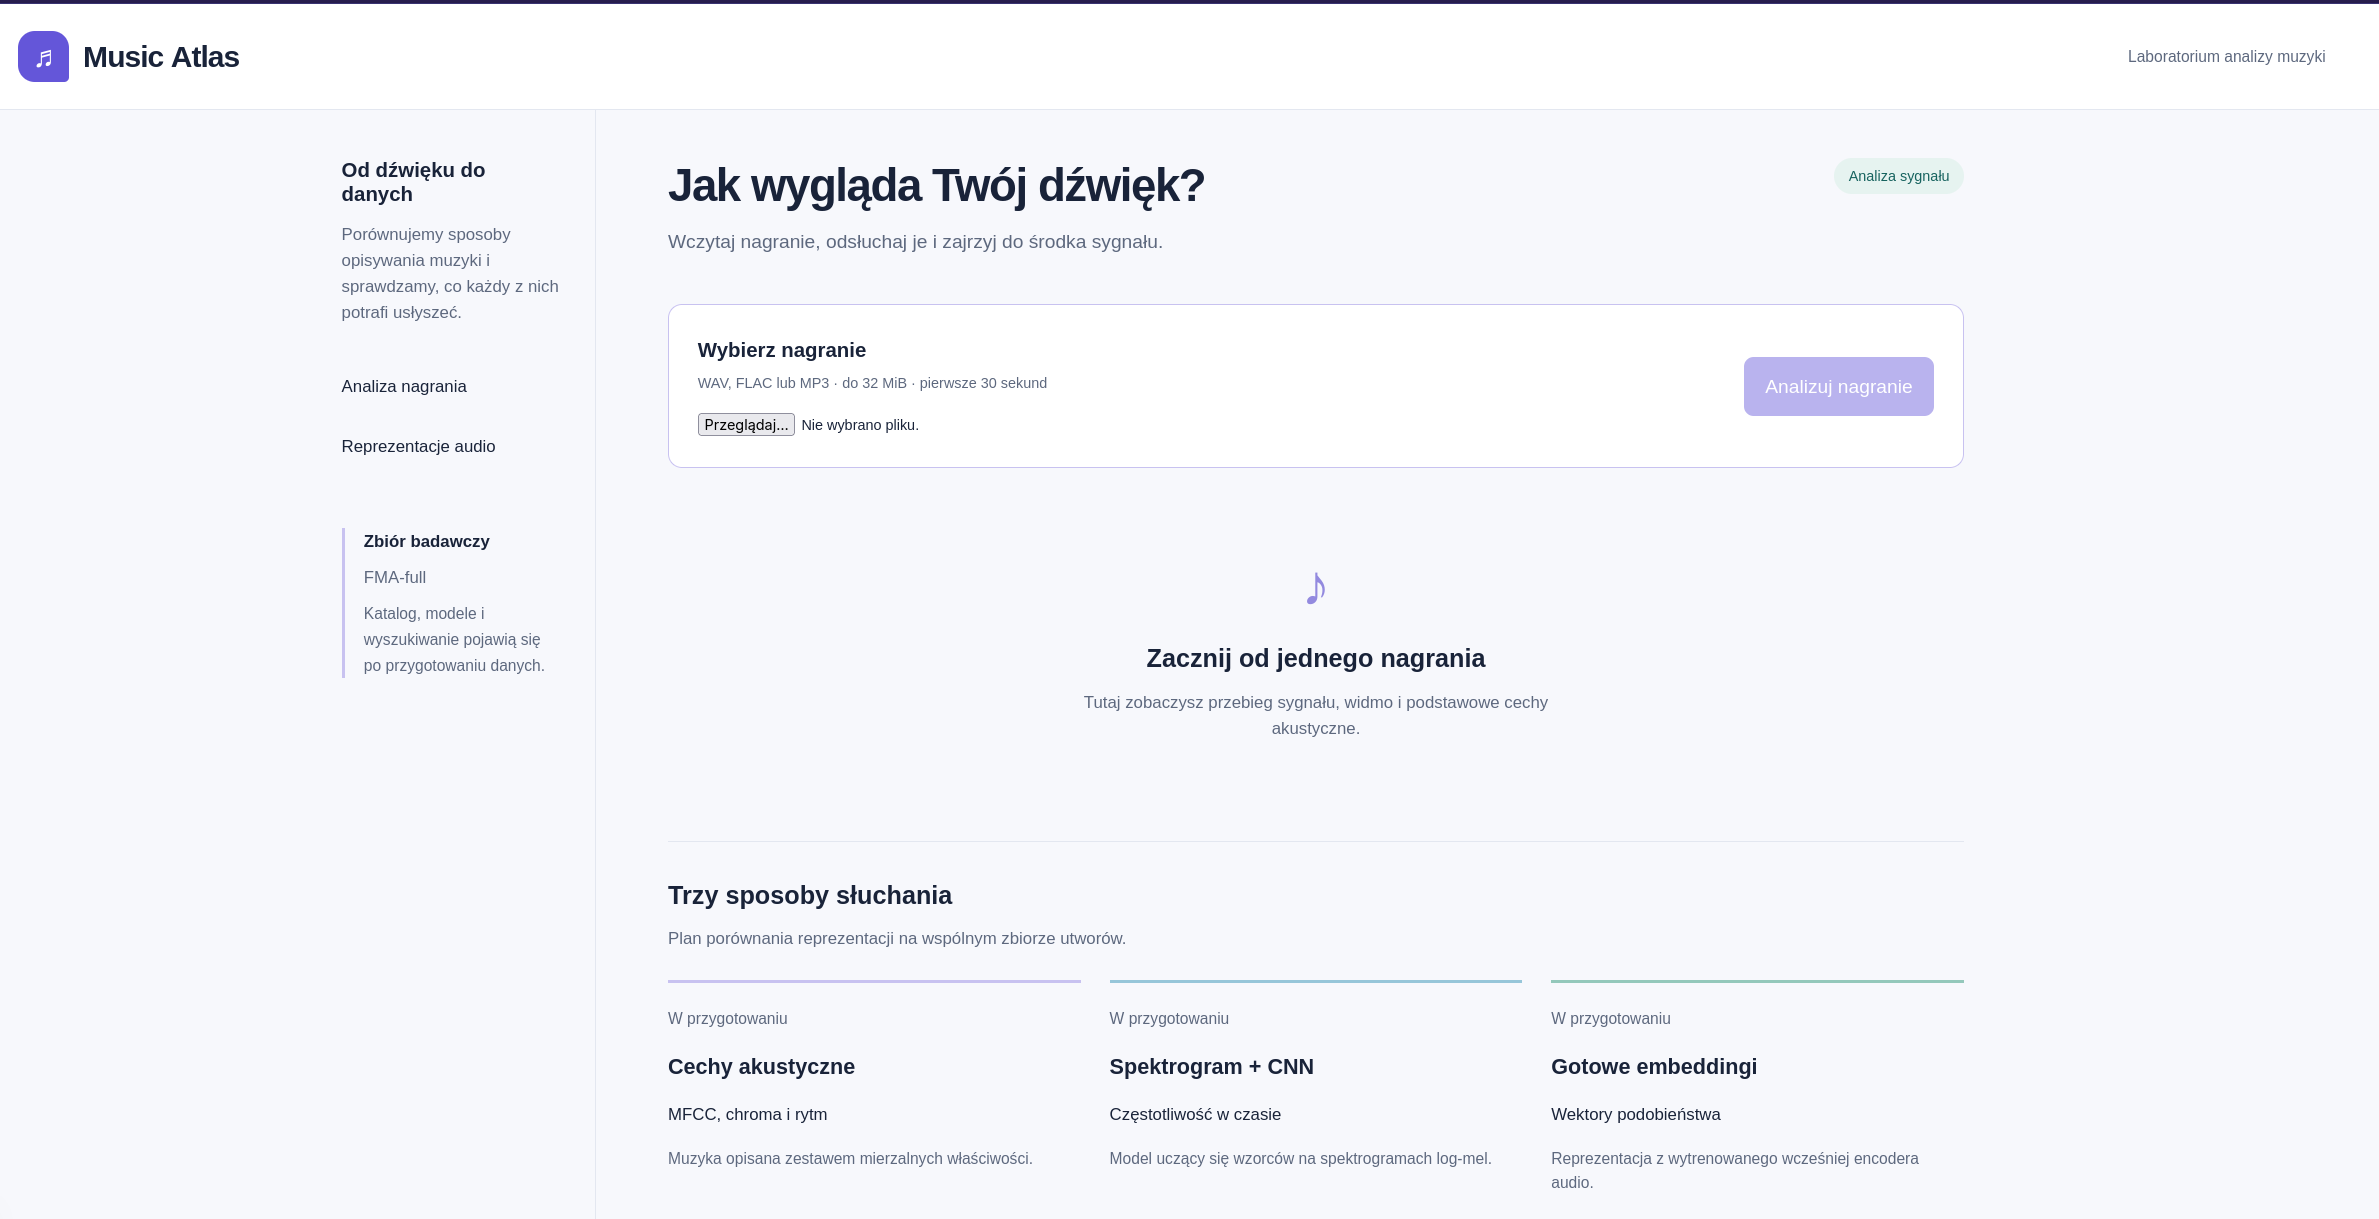
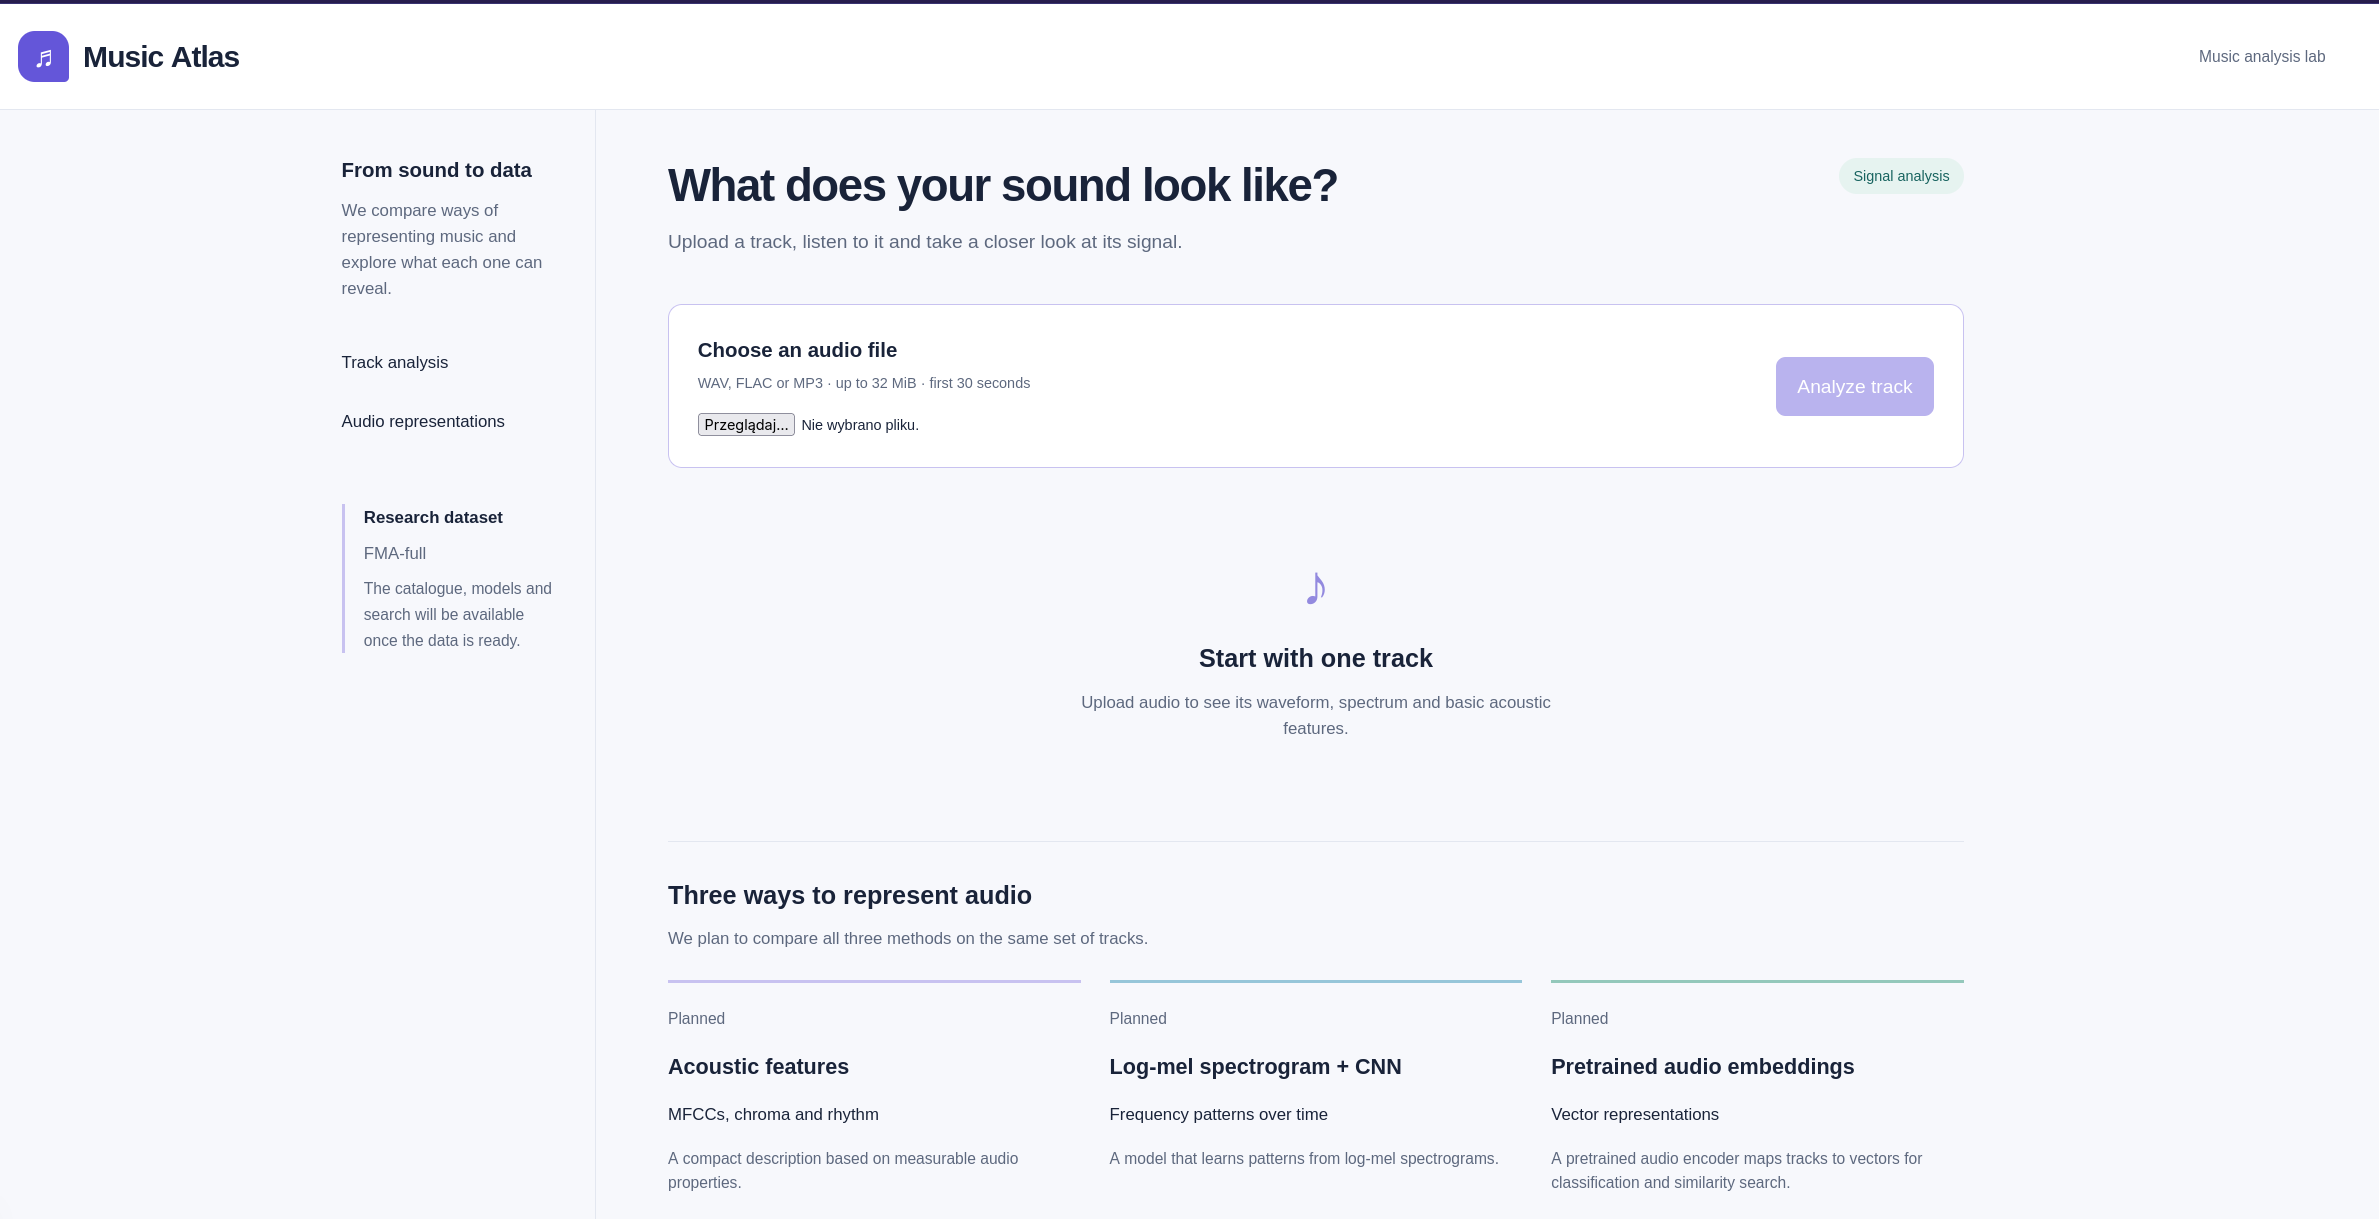
fix: switch demo interface to English

diff --git a/web/app/page.tsx b/web/app/page.tsx
@@ -36,7 +36,7 @@ export default function Home() {
     setError("");
     setAnalysis(null);
     if (file.size > 32 * 1024 * 1024) {
-      setError("Wybierz plik o rozmiarze do 32 MiB.");
+      setError("Choose an audio file up to 32 MiB.");
       return;
     }
     setBusy(true);
@@ -45,10 +45,10 @@ export default function Home() {
       body.append("file", file);
       const response = await fetch("/api/analyze", { method: "POST", body });
       const data = await response.json();
-      if (!response.ok) throw new Error(typeof data.detail === "string" ? data.detail : "Nie udało się odczytać pliku.");
+      if (!response.ok) throw new Error(typeof data.detail === "string" ? data.detail : "Could not read the audio file.");
       setAnalysis(data);
     } catch (cause) {
-      setError(cause instanceof Error ? cause.message : "Analiza nie powiodła się.");
+      setError(cause instanceof Error ? cause.message : "Audio analysis failed.");
     } finally {
       setBusy(false);
     }
@@ -62,50 +62,50 @@ export default function Home() {
   return (
     <main>
       <header>
-        <a className="brand" href="/" aria-label="Music Atlas, strona główna"><span className="mark" aria-hidden="true">♫</span> Music Atlas</a>
-        <span className="project-note">Laboratorium analizy muzyki</span>
+        <a className="brand" href="/" aria-label="Music Atlas home"><span className="mark" aria-hidden="true">♫</span> Music Atlas</a>
+        <span className="project-note">Music analysis lab</span>
       </header>
       <div className="workspace">
         <aside>
-          <h2>Od dźwięku do danych</h2>
-          <p>Porównujemy sposoby opisywania muzyki i sprawdzamy, co każdy z nich potrafi usłyszeć.</p>
-          <nav aria-label="Sekcje"><a href="#analyze">Analiza nagrania</a><a href="#representations">Reprezentacje audio</a></nav>
-          <div className="research-note"><strong>Zbiór badawczy</strong><p>FMA-full</p><small>Katalog, modele i wyszukiwanie pojawią się po przygotowaniu danych.</small></div>
+          <h2>From sound to data</h2>
+          <p>We compare ways of representing music and explore what each one can reveal.</p>
+          <nav aria-label="Sections"><a href="#analyze">Track analysis</a><a href="#representations">Audio representations</a></nav>
+          <div className="research-note"><strong>Research dataset</strong><p>FMA-full</p><small>The catalogue, models and search will be available once the data is ready.</small></div>
         </aside>
         <div className="content">
           <section id="analyze">
-            <div className="section-top"><div><h1>Jak wygląda Twój dźwięk?</h1><p>Wczytaj nagranie, odsłuchaj je i zajrzyj do środka sygnału.</p></div><span className="badge">Analiza sygnału</span></div>
+            <div className="section-top"><div><h1>What does your sound look like?</h1><p>Upload a track, listen to it and take a closer look at its signal.</p></div><span className="badge">Signal analysis</span></div>
             <form onSubmit={submit} className="upload">
-              <div><label htmlFor="audio">Wybierz nagranie</label><p>WAV, FLAC lub MP3 · do 32 MiB · pierwsze 30 sekund</p><input id="audio" type="file" accept="audio/*" disabled={busy} onChange={event => { setFile(event.target.files?.[0] ?? null); setAnalysis(null); setError(""); }} /></div>
-              <button disabled={!file || busy} type="submit">{busy ? "Analizuję…" : "Analizuj nagranie"}</button>
+              <div><label htmlFor="audio">Choose an audio file</label><p>WAV, FLAC or MP3 · up to 32 MiB · first 30 seconds</p><input id="audio" type="file" accept="audio/*" disabled={busy} onChange={event => { setFile(event.target.files?.[0] ?? null); setAnalysis(null); setError(""); }} /></div>
+              <button disabled={!file || busy} type="submit">{busy ? "Analyzing…" : "Analyze track"}</button>
             </form>
-            {audioUrl && file && <audio aria-label="Odsłuch wybranego nagrania" controls src={audioUrl} />}
-            <div aria-live="polite">{busy && <p className="status">Odczytuję nagranie i obliczam cechy sygnału.</p>}{error && <p className="error" role="alert">{error}</p>}</div>
+            {audioUrl && file && <audio aria-label="Listen to selected audio" controls src={audioUrl} />}
+            <div aria-live="polite">{busy && <p className="status">Reading audio and calculating signal features.</p>}{error && <p className="error" role="alert">{error}</p>}</div>
             {analysis ? <>
               <div className="metrics">
-                <div><span>Długość nagrania</span><strong>{analysis.duration_seconds.toFixed(1)} s</strong></div>
-                <div><span>Poziom RMS</span><strong>{analysis.rms.toFixed(3)}</strong></div>
-                <div><span>Centroid widmowy</span><strong>{Math.round(analysis.spectral_centroid_hz)} Hz</strong></div>
-                <div><span>Przejścia przez zero</span><strong>{analysis.zero_crossing_rate.toFixed(3)}</strong></div>
+                <div><span>Track duration</span><strong>{analysis.duration_seconds.toFixed(1)} s</strong></div>
+                <div><span>RMS level</span><strong>{analysis.rms.toFixed(3)}</strong></div>
+                <div><span>Spectral centroid</span><strong>{Math.round(analysis.spectral_centroid_hz)} Hz</strong></div>
+                <div><span>Zero-crossing rate</span><strong>{analysis.zero_crossing_rate.toFixed(3)}</strong></div>
               </div>
               <div className="plot">
-                <div className="plot-top"><h2>{view === "waveform" ? "Przebieg sygnału" : "Średnie widmo mocy"}</h2><div className="tabs" aria-label="Rodzaj wykresu"><button aria-pressed={view === "waveform"} onClick={() => setView("waveform")}>Sygnał</button><button aria-pressed={view === "spectrum"} onClick={() => setView("spectrum")}>Widmo</button></div></div>
-                <svg viewBox="0 0 800 210" role="img" aria-label={view === "waveform" ? "Obwiednia amplitudy w czasie" : "Widmo mocy w funkcji częstotliwości"}>
+                <div className="plot-top"><h2>{view === "waveform" ? "Waveform" : "Average power spectrum"}</h2><div className="tabs" aria-label="Plot type"><button aria-pressed={view === "waveform"} onClick={() => setView("waveform")}>Waveform</button><button aria-pressed={view === "spectrum"} onClick={() => setView("spectrum")}>Spectrum</button></div></div>
+                <svg viewBox="0 0 800 210" role="img" aria-label={view === "waveform" ? "Waveform amplitude envelope" : "Power spectrum by frequency"}>
                   {[40, 105, 170].map(y => <line key={y} x1="0" x2="800" y1={y} y2={y} stroke="#e4e8f2" />)}
                   {view === "waveform" ? analysis.waveform_min.map((v, i) => <line key={i} x1={i * 800 / 255} x2={i * 800 / 255} y1={105 - Math.max(-1, Math.min(1, v)) * 95} y2={105 - Math.max(-1, Math.min(1, analysis.waveform_max[i])) * 95} stroke="#6456d9" strokeWidth="2" />) : <polyline points={spectrumPoints} fill="none" stroke="#207d78" strokeWidth="2" />}
                 </svg>
                 <div className="axis"><span>0 {view === "waveform" ? "s" : "Hz"}</span><span>{view === "waveform" ? `${analysis.analyzed_seconds.toFixed(1)} s` : `${Math.round(analysis.frequencies_hz.at(-1) ?? 0)} Hz`}</span></div>
-                <small>Analizowany fragment: {analysis.analyzed_seconds.toFixed(1)} s. RMS opisuje poziom sygnału, centroid jego środek ciężkości w widmie.</small>
+                <small>Analyzed segment: {analysis.analyzed_seconds.toFixed(1)} s. RMS describes signal level; the spectral centroid is the center of mass of its spectrum.</small>
               </div>
-            </> : !busy && <div className="empty"><span aria-hidden="true">♪</span><h2>Zacznij od jednego nagrania</h2><p>Tutaj zobaczysz przebieg sygnału, widmo i podstawowe cechy akustyczne.</p></div>}
+            </> : !busy && <div className="empty"><span aria-hidden="true">♪</span><h2>Start with one track</h2><p>Upload audio to see its waveform, spectrum and basic acoustic features.</p></div>}
           </section>
           <section id="representations" className="representations">
-            <h2>Trzy sposoby słuchania</h2><p>Plan porównania reprezentacji na wspólnym zbiorze utworów.</p>
+            <h2>Three ways to represent audio</h2><p>We plan to compare all three methods on the same set of tracks.</p>
             <div className="methods">{[
-              ["Cechy akustyczne", "MFCC, chroma i rytm", "Muzyka opisana zestawem mierzalnych właściwości."],
-              ["Spektrogram + CNN", "Częstotliwość w czasie", "Model uczący się wzorców na spektrogramach log-mel."],
-              ["Gotowe embeddingi", "Wektory podobieństwa", "Reprezentacja z wytrenowanego wcześniej encodera audio."],
-            ].map(([title, subtitle, description]) => <article key={title}><small>W przygotowaniu</small><h3>{title}</h3><p className="method-subtitle">{subtitle}</p><p>{description}</p></article>)}</div>
+              ["Acoustic features", "MFCCs, chroma and rhythm", "A compact description based on measurable audio properties."],
+              ["Log-mel spectrogram + CNN", "Frequency patterns over time", "A model that learns patterns from log-mel spectrograms."],
+              ["Pretrained audio embeddings", "Vector representations", "A pretrained audio encoder maps tracks to vectors for classification and similarity search."],
+            ].map(([title, subtitle, description]) => <article key={title}><small>Planned</small><h3>{title}</h3><p className="method-subtitle">{subtitle}</p><p>{description}</p></article>)}</div>
           </section>
           <footer>Music Atlas · Analysis of Unstructured Data · 2026</footer>
         </div>

diff --git a/web/app/layout.tsx b/web/app/layout.tsx
@@ -7,5 +7,5 @@ export const metadata: Metadata = {
 };
 
 export default function Layout({ children }: { children: React.ReactNode }) {
-  return <html lang="pl"><body>{children}</body></html>;
+  return <html lang="en"><body>{children}</body></html>;
 }

diff --git a/README.md b/README.md
@@ -1,3 +1,5 @@
+![Music Atlas demo](docs/assets/demo.png)
+
 # Music Atlas
 
 Music Atlas explores how different representations of audio capture musical structure.
@@ -35,14 +37,6 @@ Classification will be compared with macro-F1, micro-F1 and mean average precisi
 Retrieval will use precision@10 and nDCG@10, alongside listening examples and resource costs.
 The held-out test split is reserved for final evaluation; artist and duplicate groups stay within
 one split to reduce leakage.
-
-## Current demo
-
-The interface currently supports single-file audio inspection: upload and playback, waveform
-and power-spectrum plots, and basic acoustic measurements. The three model cards are placeholders
-for planned work.
-
-![Current Music Atlas demo: single-file audio inspection and planned representation branches](docs/assets/demo.png)
 
 ## Data and computation
 

diff --git a/AGENTS.md b/AGENTS.md
@@ -6,6 +6,8 @@ and the existing implementation before editing. Project documentation is in Engl
 
 - Use Python 3.12 and uv. Keep reusable logic in `src/music_atlas/`; CLI and FastAPI
   call the same functions. The frontend uses Next.js App Router and TypeScript.
+- Write project documentation and all user-facing interface text in English. Keep screenshots
+  and examples aligned with the English interface.
 - Keep changes focused and readable. Reuse existing modules; introduce an abstraction
   only when the implementation needs it. Comments should explain non-obvious decisions.
 - Follow the track, representation and artifact formats in `docs/EXPERIMENTS.md`.
